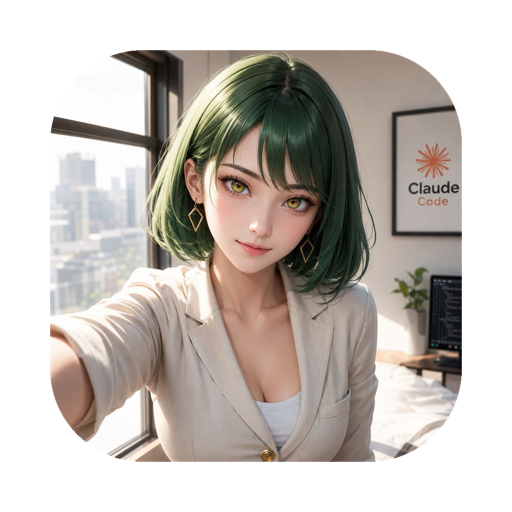
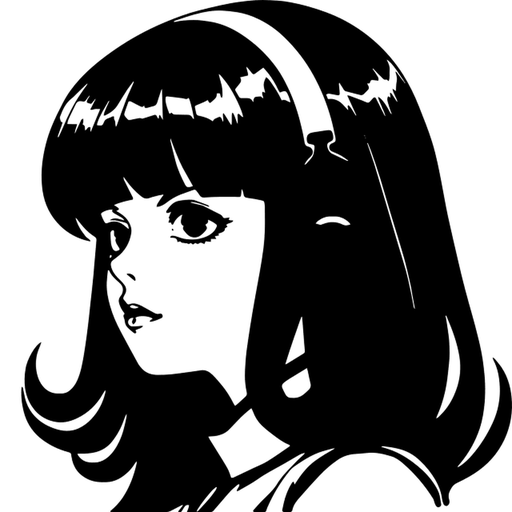
feat: 应用图标换为 9154 黑白漫画风人像
- scripts/gen_icons.py: 从单一 640x640 RGBA 源重出 macOS iconset (10 档 RGBA)、iOS 1024 (白底 RGB, 无 alpha 满足 App Store)、xcassets 三处源
- assets/icon-source.{jpg→png}: 旧 jpg 移除, 新 png 为 1024x1024 RGBA 主源
- CHANGELOG: [Unreleased] 增 Changed 一行

diff --git a/scripts/gen_icons.py b/scripts/gen_icons.py
@@ -1,0 +1,77 @@
+"""Generate Hermes-live icons from a 640x640+ RGBA source PNG.
+
+Outputs:
+  assets/icon-source.png            1024x1024 RGBA (master source)
+  assets/icon-macos-1024.png        1024x1024 RGBA
+  assets/icon-ios-1024.png          1024x1024 RGB (no alpha; iOS App Store rule)
+  assets/AppIcon.iconset/icon_*.png 10 macOS iconset sizes (RGBA)
+  ios/Assets.xcassets/AppIcon.appiconset/icon-1024.png  1024x1024 RGB
+
+Usage: .venv/bin/python scripts/gen_icons.py <source.png>
+"""
+from pathlib import Path
+import sys
+
+from PIL import Image
+
+ROOT = Path(__file__).resolve().parent.parent
+SOURCE = Path(sys.argv[1]).expanduser()
+
+ICONSET_SIZES = [
+    ("icon_16x16.png", 16),
+    ("icon_16x16@2x.png", 32),
+    ("icon_32x32.png", 32),
+    ("icon_32x32@2x.png", 64),
+    ("icon_128x128.png", 128),
+    ("icon_128x128@2x.png", 256),
+    ("icon_256x256.png", 256),
+    ("icon_256x256@2x.png", 512),
+    ("icon_512x512.png", 512),
+    ("icon_512x512@2x.png", 1024),
+]
+
+
+def flatten_on_white(rgba: Image.Image) -> Image.Image:
+    """iOS App Store forbids alpha in 1024x1024 icon. Composite onto white."""
+    bg = Image.new("RGB", rgba.size, (255, 255, 255))
+    bg.paste(rgba, mask=rgba.split()[3])
+    return bg
+
+
+def main() -> None:
+    img = Image.open(SOURCE).convert("RGBA")
+    print(f"source: {SOURCE}  size={img.size}  mode={img.mode}")
+
+    master = img.resize((1024, 1024), Image.LANCZOS)
+
+    # master source (RGBA)
+    out = ROOT / "assets/icon-source.png"
+    master.save(out, "PNG", optimize=True)
+    print(f"  -> {out.relative_to(ROOT)}")
+
+    # macOS 1024 (RGBA)
+    out = ROOT / "assets/icon-macos-1024.png"
+    master.save(out, "PNG", optimize=True)
+    print(f"  -> {out.relative_to(ROOT)}")
+
+    # iOS 1024 (RGB, no alpha)
+    out = ROOT / "assets/icon-ios-1024.png"
+    flatten_on_white(master).save(out, "PNG", optimize=True)
+    print(f"  -> {out.relative_to(ROOT)}")
+
+    # ios xcassets 1024 (RGB, no alpha)
+    out = ROOT / "ios/Assets.xcassets/AppIcon.appiconset/icon-1024.png"
+    flatten_on_white(master).save(out, "PNG", optimize=True)
+    print(f"  -> {out.relative_to(ROOT)}")
+
+    # AppIcon.iconset (RGBA, all sizes)
+    for name, size in ICONSET_SIZES:
+        out = ROOT / "assets/AppIcon.iconset" / name
+        master.resize((size, size), Image.LANCZOS).save(out, "PNG", optimize=True)
+        print(f"  -> {out.relative_to(ROOT)}")
+
+    print("done.")
+
+
+if __name__ == "__main__":
+    main()

diff --git a/CHANGELOG.md b/CHANGELOG.md
@@ -23,6 +23,7 @@
 - **恢复流式朗读**：SSE 边生成边分句送 TTS，回退 0.4.3 的「等全量返回再统一入队」（保留禁 barge-in）；实测首句 3.74s / 首音 5.0s / 整轮播完 37.06s（高律师 2026-08-10 定）
 - **ASR 切回原始 large-v3，最终落 whisper.cpp Metal**：`asr_backend: whispercpp` + `models/ggml/ggml-large-v3-q5_0.bin`（ModelScope `timeless/whispercpp` 下载，HF xet CDN 本机直连超时）；实测 RTF 0.47（faster-whisper CPU int8 为 1.37，约 3 倍提速）
 - faster-whisper large-v3 权重（`models/faster-whisper-large-v3`，ModelScope `keepitsimple/faster-whisper-large-v3`）保留作兜底
+- **替换应用图标**：使用 `~/Downloads/9154.png`（640×640 RGBA 黑白漫画风人像）作主图，`scripts/gen_icons.py` 一键重出 macOS iconset（10 档 RGBA）+ iOS 1024（白底 RGB，无 alpha 满足 App Store）+ xcassets 三处源；旧 `assets/icon-source.jpg` 进回收站
 
 ## [0.4.4] - 2026-08-10
 
